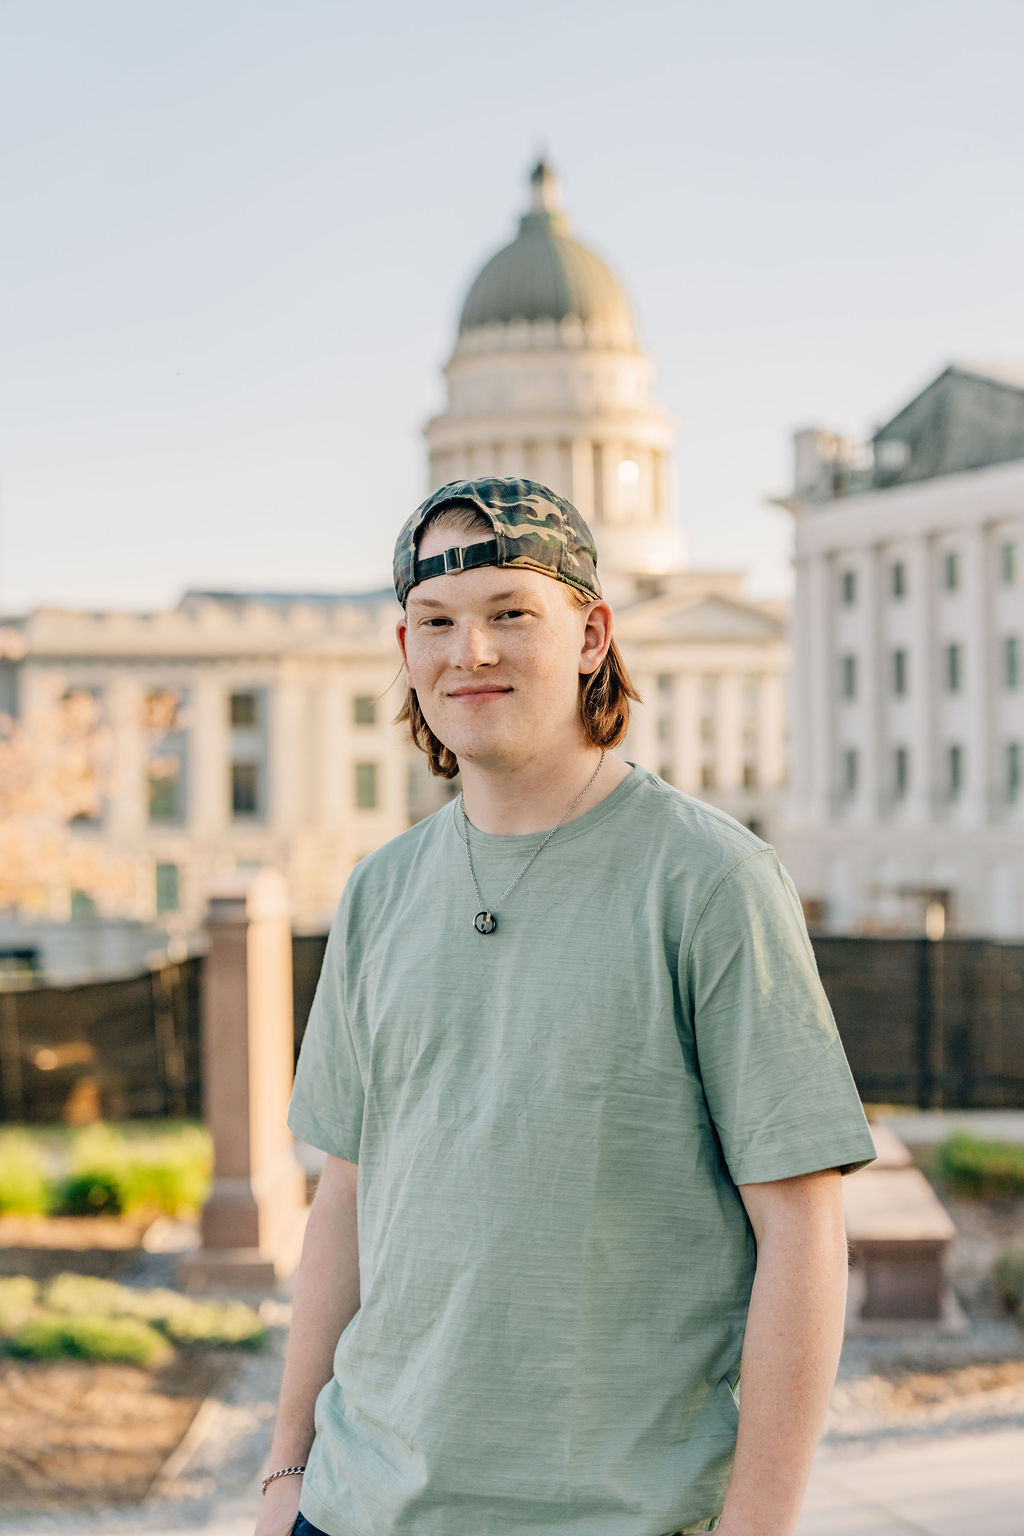
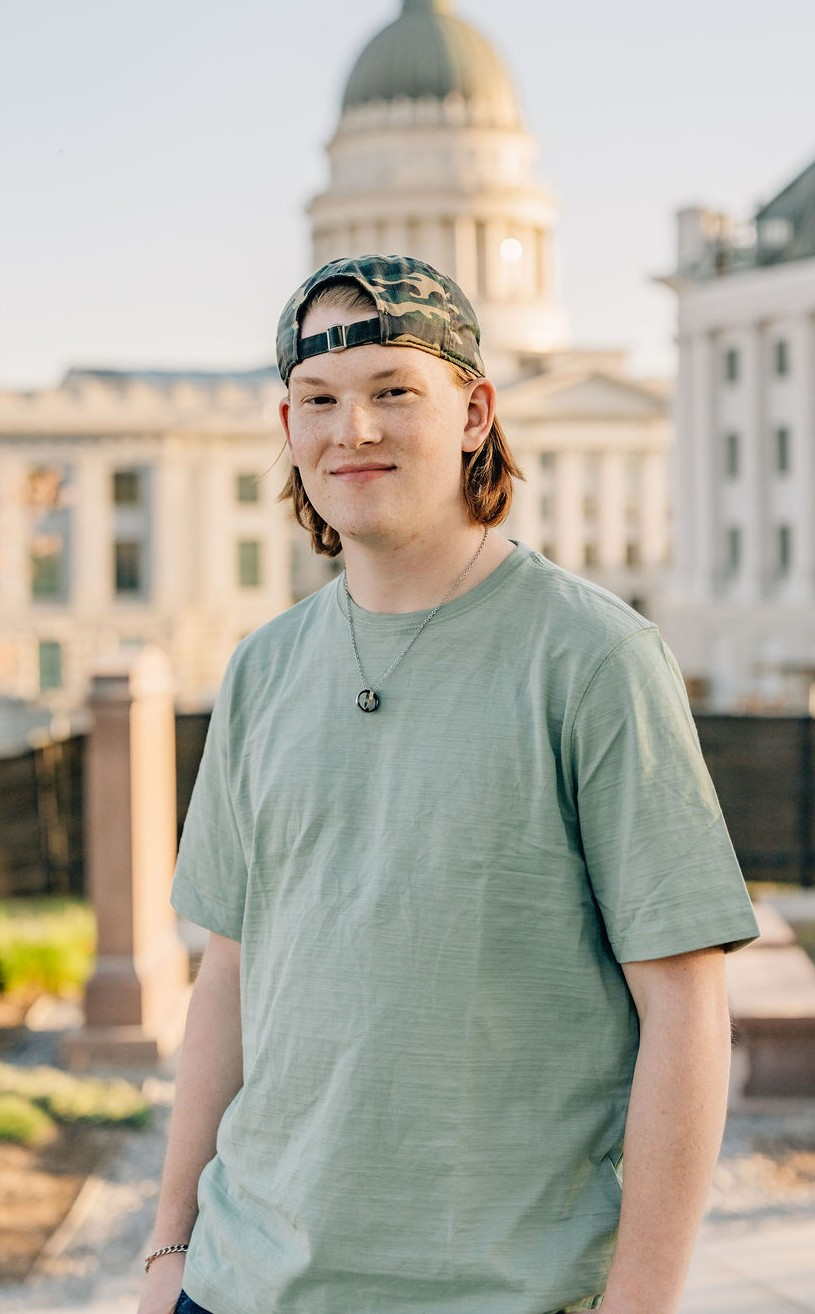
Update
Mobile View Finished on Home Page (index.html)

diff --git a/style.css b/style.css
@@ -37,7 +37,7 @@ body {
     flex: 2;
     position: relative;
     overflow: hidden;
-    height: 636.8px;
+    height: 800px;
 }
 .slides {
     display: none;
@@ -47,8 +47,9 @@ body {
 }
 .slides img {
     width: 100%;
-    height: 100%;
-    object-fit: contain; /* Maintain aspect ratio and fit within the slide */
+    height: 800px; /* Match slideshow container height */
+    object-fit: cover; /* Ensure images fill the space evenly */
+
 }
 .navbar {
     background-color: #333;
@@ -92,6 +93,10 @@ section {
 .slideshow {
     display: block; /* Ensure slideshow is visible */
 }
+.KLLogo {
+    width: 90%; 
+    padding-left: 20%;
+}
 
 /* Responsive layout for mobile */
 @media screen and (max-width: 768px) {
@@ -108,9 +113,30 @@ section {
     }
 
     .slideshow {
-        display: block; /* Ensure the slideshow is visible */
+        display: block;
         order: 2; /* Place it below the header */
         height: auto; /* Adjust height for mobile view */
+        max-height: 500px; /* Set a reasonable max height */
+        width: 100%; /* Ensure full width */
+        overflow: hidden; /* Prevent clipping */
+    }
+
+    .slides {
+        display: block;
+        position: relative;
+        width: 100%;
+        max-height: 500px; /* Ensures the slideshow isn’t too thin */
+    }
+
+    .slides img {
+        width: 100%;
+        height: 500px; /* Set a uniform height */
+        object-fit: cover; /* Ensures consistent sizing while preventing distortion */
+    }
+
+    .KLLogo {
+        width: 100%; 
+        padding-left: 0%;
     }
 
     .navbar {

diff --git a/index.html b/index.html
@@ -20,18 +20,18 @@
         </header>
         <div class="slideshow">
             <div class="slides fade">
-                <img src="./Images_Index/Lindquist-185.jpg" alt="A photo of Kasen Lindquist">
+                <img src="./Senior_Photos/Kasen-SittingWithLaptopCatalystHatForwardTanShirtLeafBackground.jpg" alt="A photo of Kasen Lindquist">
             </div>
             <div class="slides fade">
-                <img src="./Images_Index/Lindquist-19.jpg" alt="Kasen and his family.">
+                <img src="./Images_Index/Lineberry-03521.jpg" alt="Kasen and his family.">
             </div>
             <div class="slides fade">
-                <img src="./Images_Ryn/20250415_195318[1].jpg" alt="Kasen and his girlfriend, Koryn.">
+                <img src="./Images_Ryn/20241223_222704.jpg" alt="Kasen and his girlfriend, Koryn.">
             </div>
             <div class="slides fade">
                 <img src="./Images_Portfolio/Website/th copy.png"
                     alt="Kasen's Logo. A bright orange, yellow, and white modern styled letter K."
-                    style="width: 90%; padding-left: 20%;">
+                    class="KLLogo">
             </div>
         </div>
     </div>
